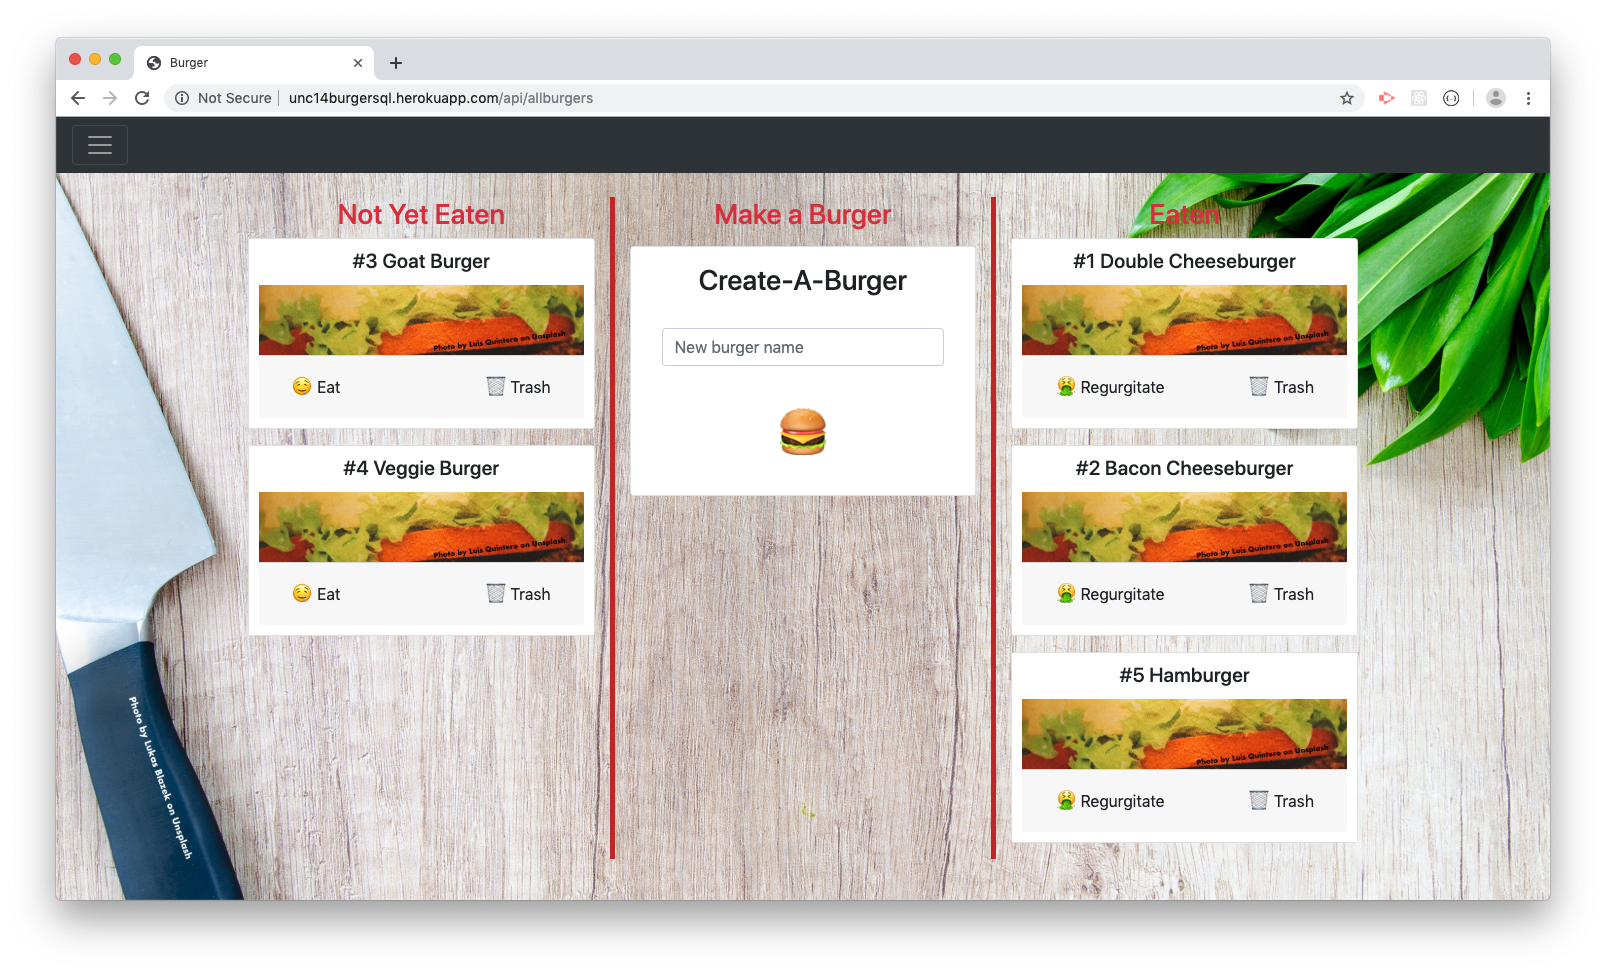
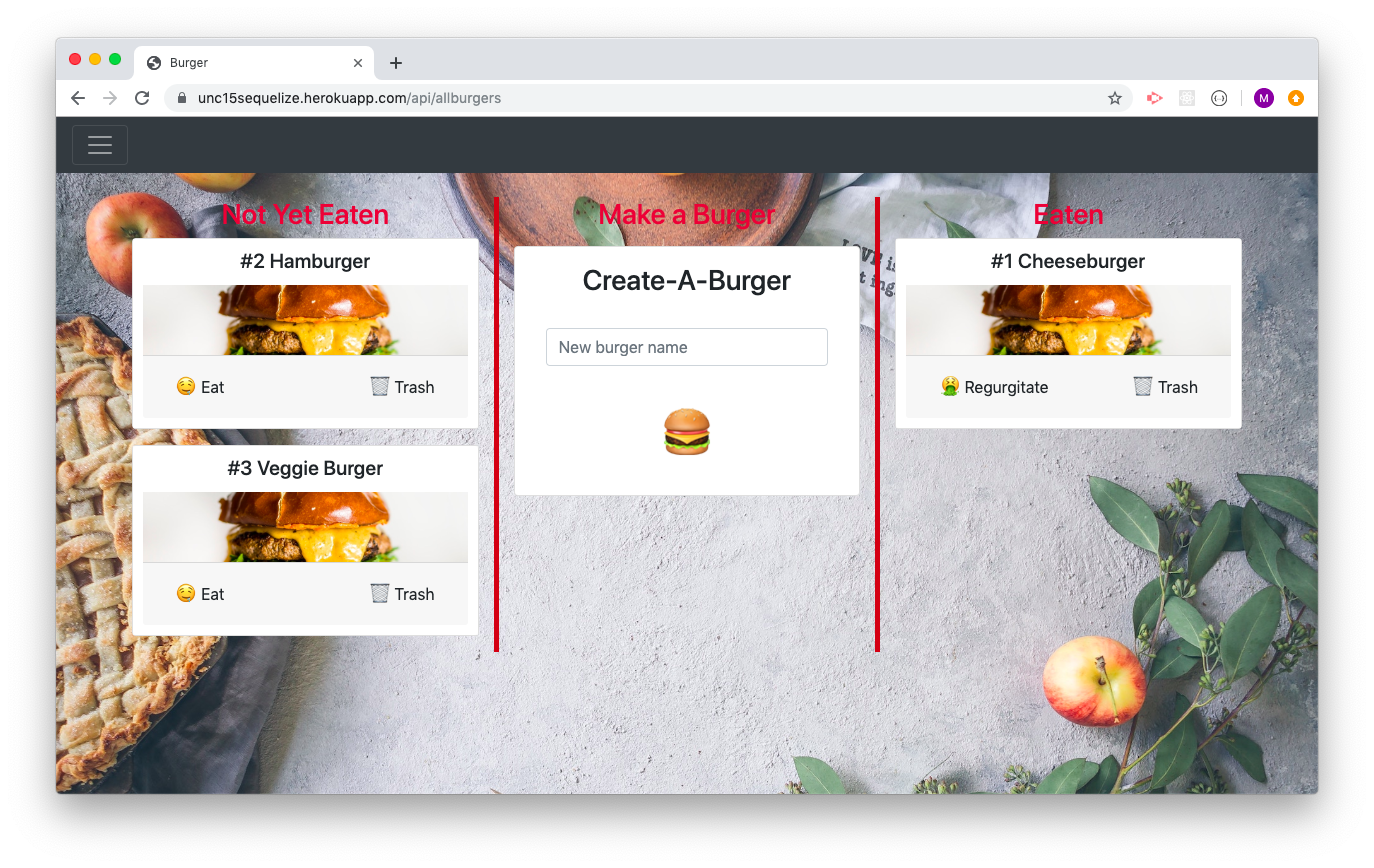
Updating readme

diff --git a/README.md b/README.md
@@ -1,8 +1,8 @@
-# **UNC Assignment #12 - Burger SQL**
+# **UNC Assignment #13 - Burger Sequelize**
 > Created by Matthew Farmer
 
 ## About
-'Burger SQL' is a simple application that allows the user to create, consume, and throw away virtual burgers. This app stores all created burgers and their properties in a MySQL database.
+'Burger SQL' is a simple application that allows the user to create, consume, and throw away virtual burgers. This app stores all created burgers and their properties in a MySQL database via the Sequelize ORM.
 
 ## Walkthrough
 
@@ -28,4 +28,4 @@ If a user wishes to permanently remove a burger (on both the DOM and the databas
 
 ### Technologies Used
 
-This application is built on NodeJS and is hosted on Heroku. It utilizes MySQL for its database, Handlebars for rendering templates, and Express for routing. An ORM has been implemented to make more concise the code necessary for connecting the front-end to the data-base. AJAX calls are also frequently made to retrieve data from the back-end.
+This application is built on NodeJS and is hosted on Heroku. It utilizes MySQL for its database, Sequelize as its ORM, Handlebars for rendering templates, and Express for routing. An ORM has been implemented to make more concise the code necessary for connecting the front-end to the data-base. AJAX calls are also frequently made to retrieve data from the back-end.
